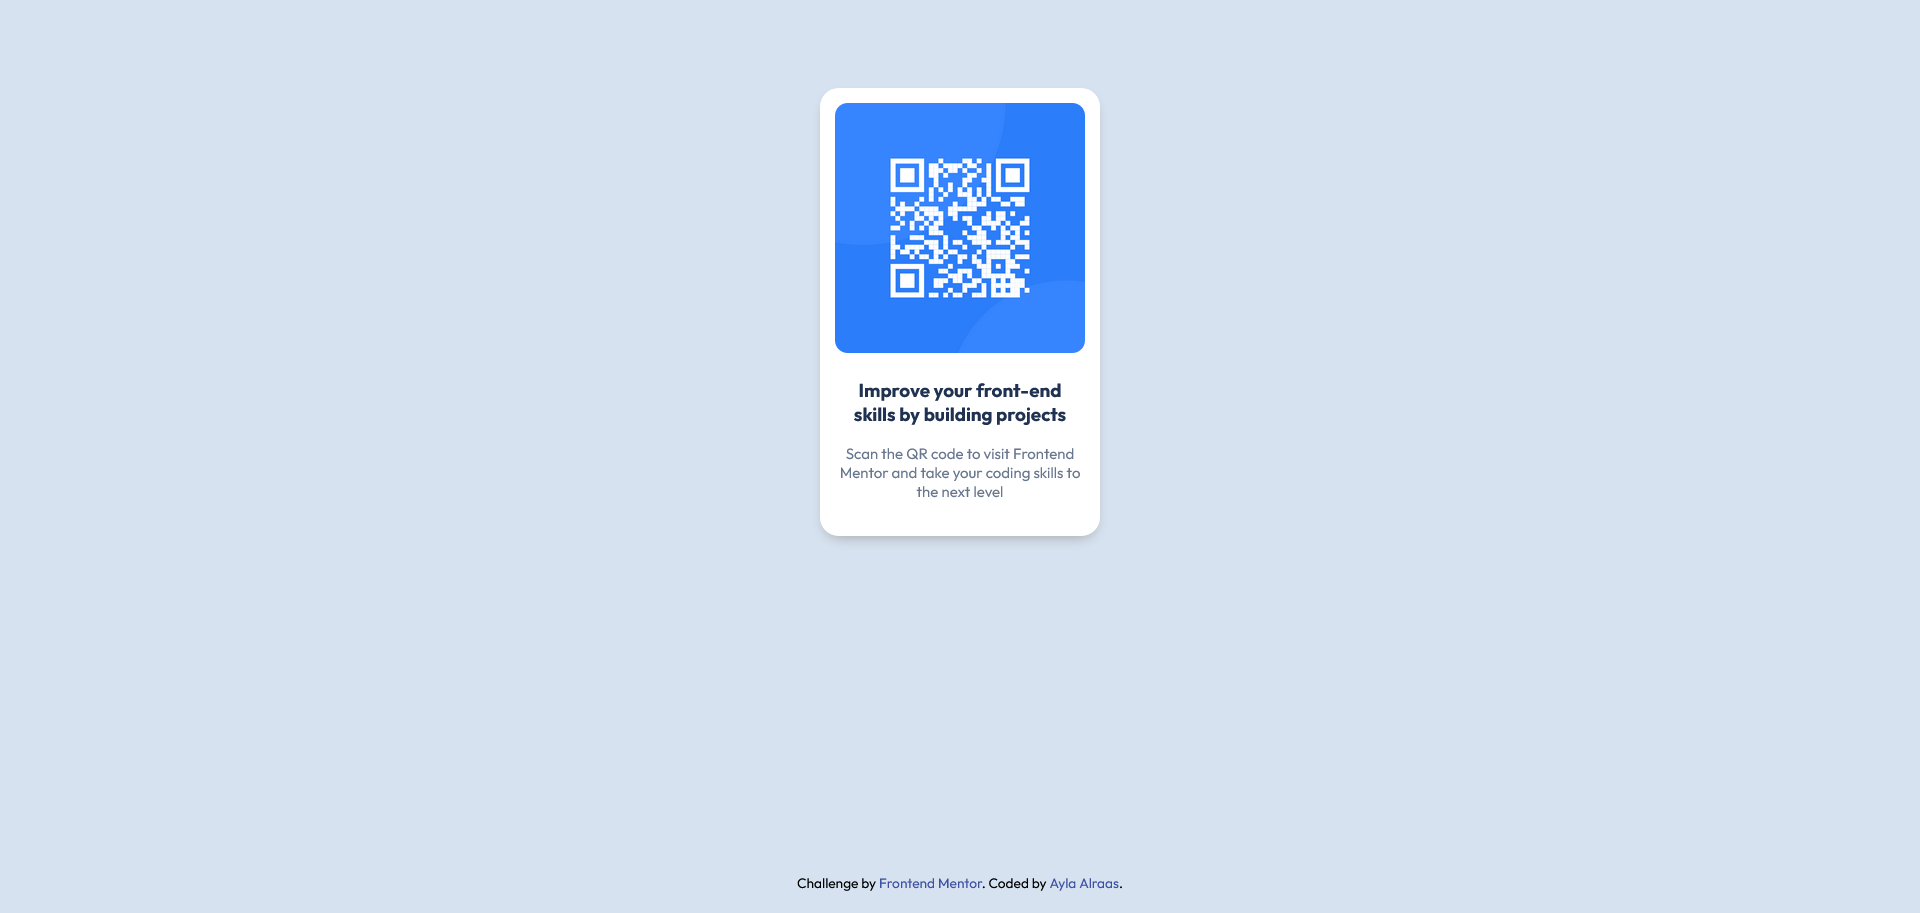
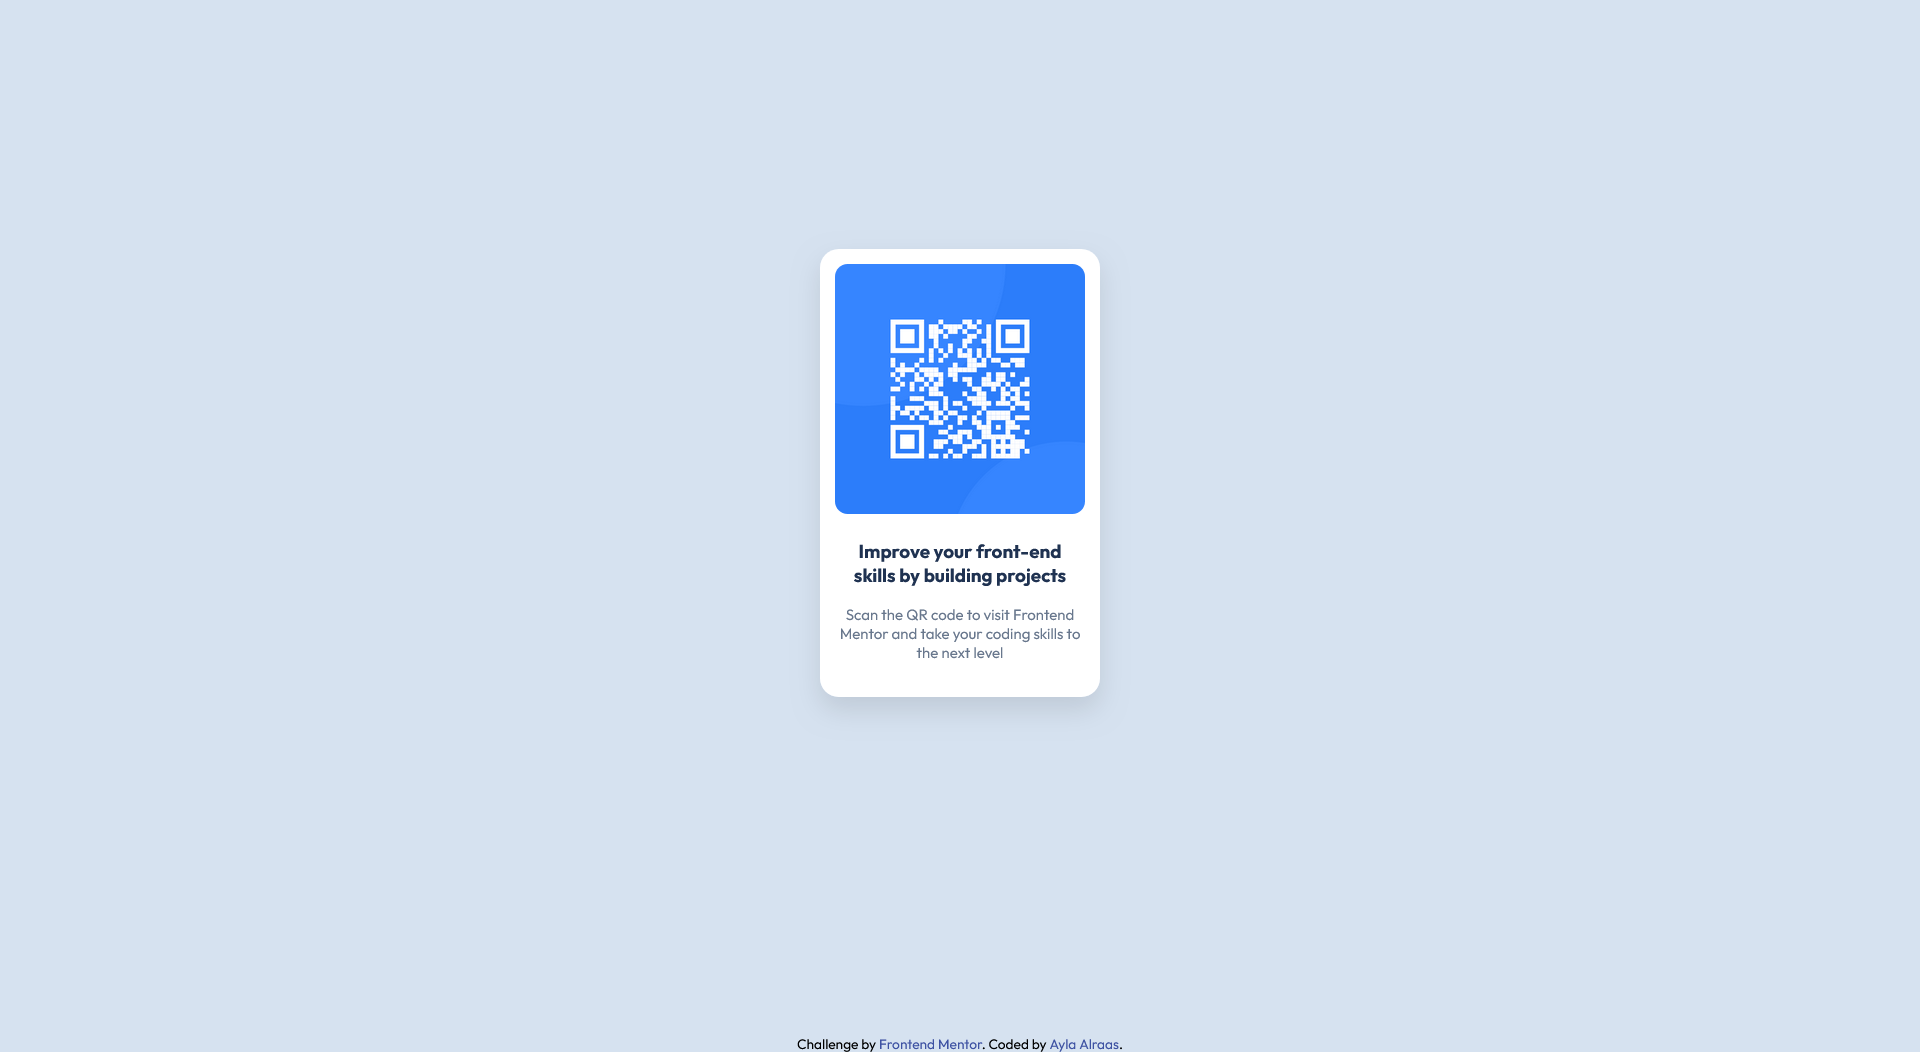
Second commit

Changed region(s): [[0.4062, 0.092, 0.5938, 0.552], [0.4062, 0.5827, 0.5938, 0.6747], [0.4062, 0.9507, 0.5938, 1.0]]

diff --git a/index.html b/index.html
@@ -16,15 +16,14 @@
       margin: 0px;
       padding: 0px;
       text-decoration: none;
-      box-sizing: none;
-
     }
     body{
       font-family: "Outfit", sans-serif;
       display: flex;
       flex-direction: column;
       align-items: center;
-      margin: 50px;
+      justify-content: center;
+      min-height: 100vh;
       padding: 20px;
       background-color: hsl(212, 45%, 89%);
 
@@ -38,7 +37,7 @@
       height: 335px;
       padding: 12px;
       border-radius: 15px;
-      box-shadow: 0px 5px 10px -5px rgb(156, 156, 156);
+      box-shadow: 0 10px 20px rgba(0, 0, 0, 0.1);
       background-color: white;
       text-align: center;
     }
@@ -69,7 +68,7 @@
 
   <div class="container">
     <img src="./images/image-qr-code.png" alt="code" class="scan">
-    <h6 class="first">Improve your front-end skills by building projects</h6>
+    <h1 class="first">Improve your front-end skills by building projects</h1>
     <p class="second">Scan the QR code to visit Frontend Mentor and take your coding skills to the next level</p>
   </div>
   <div class="attribution">
